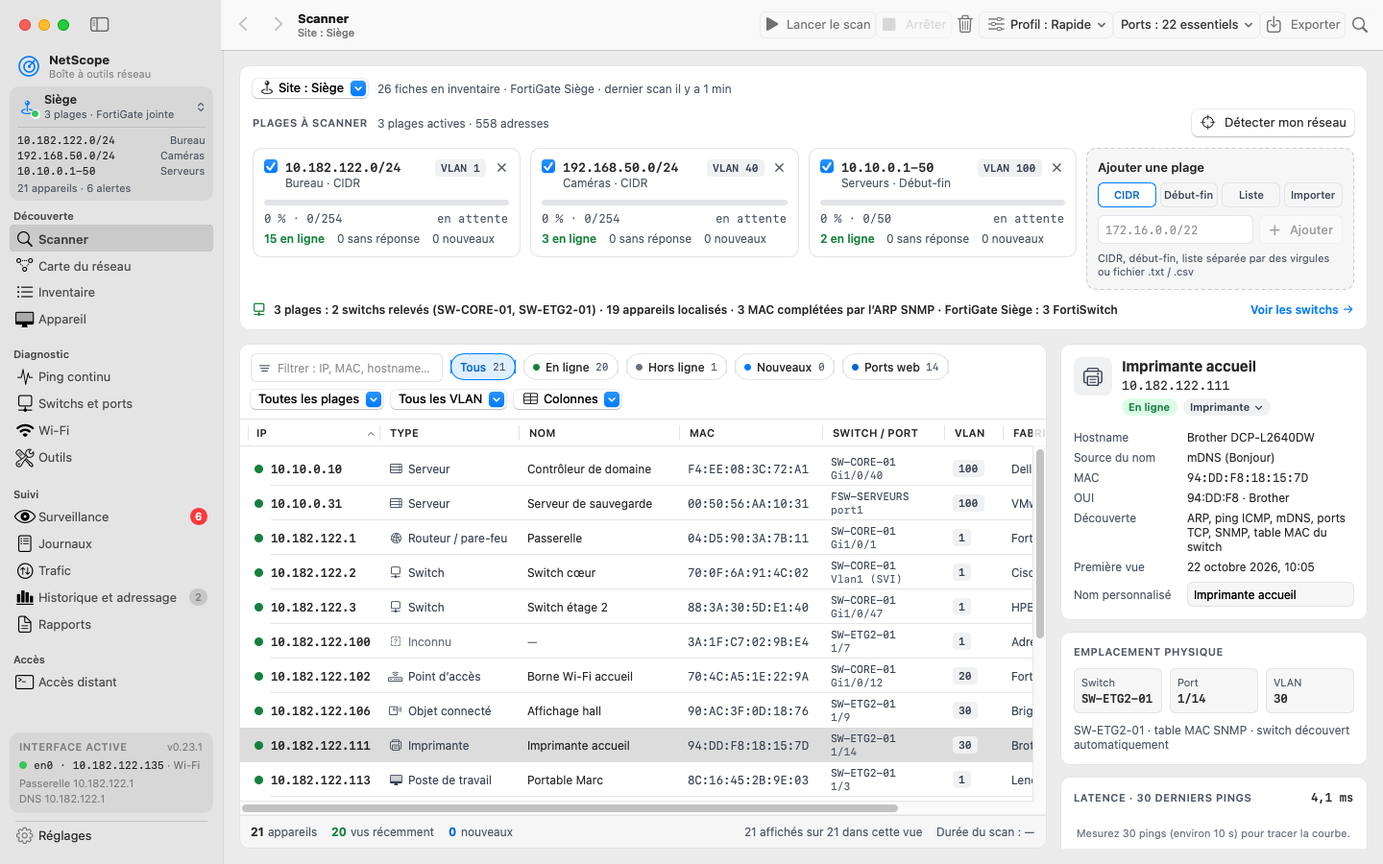
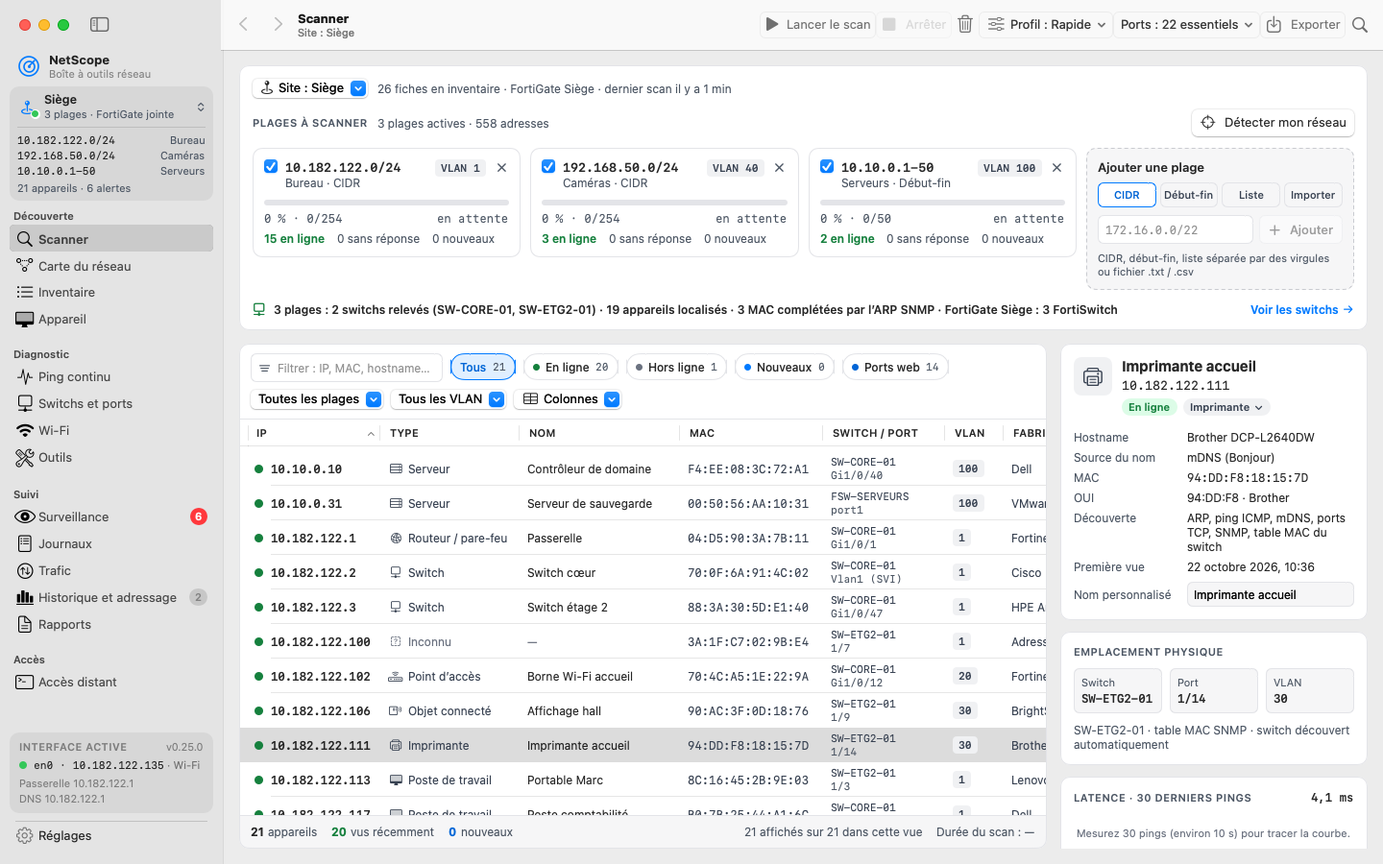
Version 0.25.0
- Info.plist : 0.25.0 (build 31).
- CHANGELOG : section 0.25.0 (SNMP v3 partout, Navigateur SNMP, graphes du
  trafic des ports, Trafic sans FortiView, actions sur les ports, allègements
  de la note 79) avec les limites connues.
- README : version, fonctions (switchs, cycle PoE, Navigateur SNMP, Courriel à
  onglets, Bilan de santé) et feuille de route.
- A-FAIRE : notes 59, 73, 74, 79, partie « Trafic » de la note 78 et
  navigateur SNMP livrés dans la 0.25.0 ; priorités mises à jour.
- Capture du Scanner refaite (version 0.25.0 dans la barre latérale).

Changed region(s): [[0.1875, 0.9333, 0.6562, 0.9644], [0.75, 0.5289, 0.7812, 0.7467], [0.75, 0.84, 0.7812, 0.8711]]

diff --git a/docs/A-FAIRE.md b/docs/A-FAIRE.md
@@ -6,9 +6,9 @@
 
 ## Priorités (revues le 5 novembre 2026, réorganisées avec les notes 45 à 79 après l’analyse du marché)
 
-Notes 1 à 5 : livrées dans la 0.3.0 ; note 18 dans la 0.3.1 ; notes 8, 19, 20 et 9 dans la 0.4.0 ; types Console de jeu et Domotique dans la 0.4.1 ; notes 12, 21, 17 et 16 dans la 0.5.0 ; notes 15 et 14 dans la 0.6.0 ; notes 7 et 22 dans la 0.7.0 ; notes 13 et 23 dans la 0.8.0 ; note 24 dans la 0.9.0 ; note 25 dans la 0.10.0 ; notes 26 et 27 dans la 0.11.0 ; note 28 et correction de la Carte dans la 0.12.0 ; notes 34, 33, 31 et 36 dans la 0.13.0 ; notes 32, 30, 37 et 38 dans la 0.14.0 ; notes 49, 48, 45 et 52 dans la 0.15.0 ; notes 46 et 47, et correctif iCloud de Vitesse des disques, dans la 0.16.0 ; notes 29, 39 et 54 dans la 0.17.0 ; notes 50, 51, 53, 55 et 56 dans la 0.18.0 ; notes 42 et 10 dans la 0.20.0 ; notes 41 et 43, et la note 11 en partie (pause par cible, tableau MTR, écran vide), dans la 0.21.0 ; note 57 dans la 0.22.0 ; notes 35 et 60 dans la 0.23.0 (la note 40 reste à faire).
+Notes 1 à 5 : livrées dans la 0.3.0 ; note 18 dans la 0.3.1 ; notes 8, 19, 20 et 9 dans la 0.4.0 ; types Console de jeu et Domotique dans la 0.4.1 ; notes 12, 21, 17 et 16 dans la 0.5.0 ; notes 15 et 14 dans la 0.6.0 ; notes 7 et 22 dans la 0.7.0 ; notes 13 et 23 dans la 0.8.0 ; note 24 dans la 0.9.0 ; note 25 dans la 0.10.0 ; notes 26 et 27 dans la 0.11.0 ; note 28 et correction de la Carte dans la 0.12.0 ; notes 34, 33, 31 et 36 dans la 0.13.0 ; notes 32, 30, 37 et 38 dans la 0.14.0 ; notes 49, 48, 45 et 52 dans la 0.15.0 ; notes 46 et 47, et correctif iCloud de Vitesse des disques, dans la 0.16.0 ; notes 29, 39 et 54 dans la 0.17.0 ; notes 50, 51, 53, 55 et 56 dans la 0.18.0 ; notes 42 et 10 dans la 0.20.0 ; notes 41 et 43, et la note 11 en partie (pause par cible, tableau MTR, écran vide), dans la 0.21.0 ; note 57 dans la 0.22.0 ; notes 35 et 60 dans la 0.23.0 ; erreurs récentes des ports dans la 0.23.1 ; notes 59, 73, 74 et 79, la partie « Trafic » de la note 78 et le navigateur SNMP dans la 0.25.0 (la 0.24.0, notes 40 et 61, reste à faire).
 
-1. **0.13.x à 0.22.x, retours d'essai** (0.8.1 : plantage de Vitesse des disques sur le NAS corrigé ; 0.9.0 : FortiGate essayée avec succès ; 0.10.0 : plusieurs FortiGate à essayer ; 0.11.0 : recherche multiple et FortiAP à essayer ; 0.12.0 : sites à essayer ; 0.13.0 : navigation et gros sites à essayer ; 0.14.0 : recherche de la Carte, téléphones IP, étendues DHCP et sauvegarde chiffrée à essayer ; 0.15.0 : choix du site, Switchs et Wi-Fi d'un autre site, Retour et nom d'utilisateur SSH à essayer ; 0.16.0 : clients Wi-Fi, fiche du client, historique du signal et diagnostic Wi-Fi à essayer sur de vraies bornes FortiAP ; 0.17.0 : relecture automatique, WAN et VPN, Trafic FortiView et analyse complète à essayer sur de vraies FortiGate ; 0.18.0 : FTP, FTPS, SFTP, TFTP, « Bloqué ici », NAS dans Vitesse des disques, export, import et synchronisation à essayer sur de vrais appareils et deux Mac ; 0.20.0 : rapport de suivi, rapports planifiés et Inventaire repensé à essayer sur les vrais sites ; 0.21.0 : firmware et licences, Syslog, traps SNMP, journaux de la FortiGate et pause par cible du Ping à essayer sur de vrais équipements ; 0.22.0 : terminal intégré SSH, Telnet et série, et session VNC intégrée à essayer sur de vrais équipements, câbles console et serveurs VNC ; 0.23.0 : journal de l’app, « Exporter un diagnostic » et fiche matériel automatique à essayer sur de vrais switchs, imprimantes et FortiGate) : essais réels de la 0.3.x (localisation, DHCP, capture,
+1. **0.13.x à 0.22.x, retours d'essai** (0.8.1 : plantage de Vitesse des disques sur le NAS corrigé ; 0.9.0 : FortiGate essayée avec succès ; 0.10.0 : plusieurs FortiGate à essayer ; 0.11.0 : recherche multiple et FortiAP à essayer ; 0.12.0 : sites à essayer ; 0.13.0 : navigation et gros sites à essayer ; 0.14.0 : recherche de la Carte, téléphones IP, étendues DHCP et sauvegarde chiffrée à essayer ; 0.15.0 : choix du site, Switchs et Wi-Fi d'un autre site, Retour et nom d'utilisateur SSH à essayer ; 0.16.0 : clients Wi-Fi, fiche du client, historique du signal et diagnostic Wi-Fi à essayer sur de vraies bornes FortiAP ; 0.17.0 : relecture automatique, WAN et VPN, Trafic FortiView et analyse complète à essayer sur de vraies FortiGate ; 0.18.0 : FTP, FTPS, SFTP, TFTP, « Bloqué ici », NAS dans Vitesse des disques, export, import et synchronisation à essayer sur de vrais appareils et deux Mac ; 0.20.0 : rapport de suivi, rapports planifiés et Inventaire repensé à essayer sur les vrais sites ; 0.21.0 : firmware et licences, Syslog, traps SNMP, journaux de la FortiGate et pause par cible du Ping à essayer sur de vrais équipements ; 0.22.0 : terminal intégré SSH, Telnet et série, et session VNC intégrée à essayer sur de vrais équipements, câbles console et serveurs VNC ; 0.23.0 : journal de l’app, « Exporter un diagnostic » et fiche matériel automatique à essayer sur de vrais switchs, imprimantes et FortiGate ; 0.25.0 : SNMP v3, navigateur SNMP, graphes des ports et cycle PoE à essayer sur de vrais switchs, FortiSwitch et FortiGate, d’abord sur un port sans risque) : essais réels de la 0.3.x (localisation, DHCP, capture,
    notifications, VNC, mise à jour), de la 0.4.0 (menus de colonnes, type, ports, sombre) et
    des 0.5.0 à 0.8.0 (voir ci-dessous) ; la 0.23.0 n’a pas encore reçu ces retours : ils passent à la 0.23.x, avant la 0.24.0 (point 20).
 2. ~~**0.5.0, diagnostic du poste et du réseau local**~~ : livrée le 4 novembre 2026
@@ -81,6 +81,14 @@ Notes 1 à 5 : livrées dans la 0.3.0 ; note 18 dans la 0.3.1 ; notes 8, 19, 20 
     secrets masqués, « Exporter un diagnostic… », bannière après une fermeture inattendue ;
     60 : modèle, numéro de série et firmware lus par ENTITY-MIB, sysDescr et la FortiGate) ;
     essai réel à faire sur les switchs, imprimantes, FortiSwitch, FortiAP et FortiGate de Dany.
+    ~~**0.25.0, SNMP complet et actions sur les ports**~~ : livrée le 5 novembre 2026, avant la
+    0.24.0 (notes 59 : SNMP v3 partout, utilisateur v3 par site ; navigateur SNMP et MIB walk ;
+    74 : graphes du trafic de chaque port sur 30 jours, historique par site ; 78, partie
+    « Trafic » : trafic des ports sans FortiView, erreurs au rythme par heure ; 73 : cycle PoE et
+    redémarrage d’un port, désactivés par défaut ; 79 : « Historique et adressage », « Bilan de
+    santé », outil Courriel à onglets, Ookla et services grand public masqués) ; essai réel à
+    faire sur les switchs, FortiSwitch et FortiGate de Dany (v3, jeton en lecture-écriture,
+    POWER-ETHERNET-MIB en écriture).
 19. **Ordre proposé pour la suite** (analyse du 4 novembre 2026, acceptée par Dany ;
     réorganisé le même jour pour placer les notes 45 à 53, ordre accepté par Dany) :
     - **0.13.1** : essais réels (sites, FortiGate, FortiAP, navigation) et correctifs ; note 35
@@ -113,11 +121,14 @@ Notes 1 à 5 : livrées dans la 0.3.0 ; note 18 dans la 0.3.1 ; notes 8, 19, 20 
       « Exporter un diagnostic ») et 60 (fiche matériel remplie automatiquement). Les retours
       d’essai sur une vraie FortiGate, un site et un scan restent à faire et seront corrigés au
       fil de l’eau en 0.23.x.
-    - **0.24.0, sauvegarde des configurations** (reprend la 0.19.0) : note 40 (FortiGate par
+    - **0.24.0, sauvegarde des configurations** (reprend la 0.19.0 ; toujours à faire, la 0.25.0
+      est sortie avant) : note 40 (FortiGate par
       l’API, puis switchs en SSH grâce au terminal de la 0.22.0) ; note 61 (export de la carte et
       section « Carte » du rapport).
-    - **0.25.0, SNMP complet** : note 59 (SNMP v3 partout) ; navigateur SNMP et MIB walk (idée
-      sans numéro, venue de l’ancienne feuille de route) ; note 74 (graphes de bande passante par port).
+    - ~~**0.25.0, SNMP complet**~~ (livrée le 5 novembre 2026, avant la 0.24.0) : note 59 (SNMP
+      v3 partout) ; navigateur SNMP et MIB walk (idée sans numéro, venue de l’ancienne feuille de
+      route) ; note 74 (graphes de bande passante par port) ; partie « Trafic » de la note 78 ;
+      avec en plus les notes 73 et 79, décidées par Dany.
     - **0.26.0, bilan de raccordement** : note 58 (bilan en un clic, avant/après) ; Test MTU réel
       (note 78) ; note 65 (ping TCP/HTTP, traceroute TCP/UDP).
     - **0.27.0, surveillance de longue durée** : note 62 (historique de 30 à 90 jours, rapport de
@@ -132,9 +143,9 @@ Notes 1 à 5 : livrées dans la 0.3.0 ; note 18 dans la 0.3.1 ; notes 8, 19, 20 
       canal en 5/6 GHz et relevé enregistré (note 78) ; notes 66 (tunnels SSH) et 67 (commande
       envoyée à plusieurs sessions) ; XMODEM en console série et import de `~/.ssh/config`
       (note 78).
-    - **À décider avec Dany avant la 0.24.0** : note 73 (cycle PoE : rompt la règle de lecture
-      seule) ; Ookla caché ou retiré, nouveaux noms des deux « analyses », regrouper les outils
-      de courriel (note 79) ; avancer la note 66 (tunnels SSH) en 0.24.0 si le VNC non chiffré ou
+    - ~~**À décider avec Dany avant la 0.24.0**~~ : notes 73 (cycle PoE) et 79 (Ookla caché,
+      nouveaux noms des deux « analyses », outils de courriel regroupés) décidées et livrées dans
+      la 0.25.0 ; reste à décider : avancer la note 66 (tunnels SSH) en 0.24.0 si le VNC non chiffré ou
       le réseau FortiLink posent problème pendant les essais.
     - **Plus tard** : note 11 (reste : préréglages du Ping continu), 6 (RustDesk, en version
       légère), 13 (anglais) ; notes 68 à 70 (empreinte des services, ports UDP, certificats
@@ -149,7 +160,7 @@ Notes 1 à 5 : livrées dans la 0.3.0 ; note 18 dans la 0.3.1 ; notes 8, 19, 20 
 | --- | --- | --- |
 | Scanner et sites | 18, 19, 20, 26, 28, 48, 49 | 63 (0.28.0), IPv6 (0.29.0), 68, 69, 72 (plus tard) |
 | Navigation entre les modules | 31, 33, 34, 36, 45 | — |
-| Switchs et ports, Fortinet | 12, 24, 25, 29, 39, 41, 54 | 40 (0.24.0), 59, 74 et navigateur SNMP / MIB walk (0.25.0), 73 (à décider), 75, 77 (plus tard) |
+| Switchs et ports, Fortinet | 12, 24, 25, 29, 39, 41, 54, 59, 73, 74, navigateur SNMP / MIB walk (0.25.0) | 40 (0.24.0), 75, 77 (plus tard) |
 | Wi-Fi | 1, 27, 46, 47 | 71 (0.30.0) |
 | Carte du réseau | 32 | 61 (0.24.0) |
 | Inventaire | 8, 10, 30 | 60 (0.23.0) |
@@ -159,7 +170,7 @@ Notes 1 à 5 : livrées dans la 0.3.0 ; note 18 dans la 0.3.1 ; notes 8, 19, 20 
 | Surveillance, alertes et journaux | 3, 23, 43 | 62 (0.27.0), 64 (0.28.0), 76 (plus tard) |
 | Rapports | 4, 42 | 61 (0.24.0), 62 (0.27.0) |
 | Réglages, sauvegarde, aide | 9, 13, 38, 56 | 35 (0.23.0), 13 (plus tard) |
-| Toute l’app (analyse du marché) | — | 78 (améliorations), 79 (allègements, à décider) |
+| Toute l’app (analyse du marché) | 79 (0.25.0), 78 en partie (Trafic, 0.25.0) | 78 (autres améliorations) |
 
 ## 1. Wi-Fi : « Autoriser la localisation » n'ouvre pas la fenêtre d'autorisation
 
@@ -1155,6 +1166,8 @@ Terminal » et « Partage d'écran » restent en secours dans le menu de « Conn
 
 ## 59. SNMP v3 pour le relevé des switchs, les Ressources et les sondes — 0.25.0 (analyse du marché, à valider par Dany)
 
+**Livrée dans la 0.25.0** (5 novembre 2026) : relevé des switchs, relecture automatique, Ressources, sondes, fiche matériel et découverte de fin de scan en SNMP v3, communauté v2c en repli ; utilisateur v3 par site ; navigateur SNMP (GET, GETNEXT, parcours, export CSV) livré avec ; essai réel à faire sur les switchs de Dany.
+
 - **Ce que ça apporte** : beaucoup de parcs récents refusent le v2c. Le moteur v3 existe déjà
   (`SNMPv3.swift`) mais ne sert qu’au Test SNMP ; il faut le brancher sur le relevé des
   switchs, les Ressources et les sondes de Surveillance.
@@ -1267,6 +1280,8 @@ Terminal » et « Partage d'écran » restent en secours dans le menu de « Conn
 
 ## 73. Actions sur un port : cycle PoE et redémarrage — à décider (analyse du marché, à valider par Dany)
 
+**Livrée dans la 0.25.0** (5 novembre 2026) : cycle PoE et « Redémarrer le port » par l’API de la FortiGate (jeton en lecture-écriture sur « WiFi & Switch Controller »), cycle PoE par SNMP en écriture pour les autres switchs, actions désactivées par défaut, confirmation, uplinks refusés, suivi du retour de l’appareil ; essai réel à faire, d’abord sur un port sans risque.
+
 - **À décider avec Dany : rompt la règle de lecture seule.** Aujourd’hui NetScope ne change
   rien sur les équipements (API FortiGate et SNMP en lecture).
 - **Ce que ça apporte** : redémarrer à distance un téléphone IP, une borne ou une caméra figés,
@@ -1275,6 +1290,8 @@ Terminal » et « Partage d'écran » restent en secours dans le menu de « Conn
 - **Effort** : moyen.
 
 ## 74. Graphes de bande passante par port sur la durée — 0.25.0 (analyse du marché, à valider par Dany)
+
+**Livrée dans la 0.25.0** (5 novembre 2026) : graphe de chaque port sur 1 h à 30 jours, historique par site jusqu’à 90 jours, « Ports les plus chargés » par période, Trafic par les compteurs des switchs sans FortiView ; essai réel à faire sur de vrais switchs (historique rempli seulement quand l’app est ouverte).
 
 - **Ce que ça apporte** : voir un lien saturé dans le temps, pas en instantané. Compteurs SNMP
   des interfaces, qui servent aussi de trafic de secours pour les réseaux sans FortiGate.
@@ -1345,12 +1362,14 @@ feuille de route révisée, « plus tard » sinon.
   `~/.ssh/config`, tunnels (note 66), commande envoyée à plusieurs sessions (note 67),
   XMODEM/YMODEM et horodatage des lignes en console série ; presse-papiers VNC au-delà du texte
   plus tard (le Break et le préréglage Cisco/Fortinet sont livrés dans la 0.22.0).
-- **Trafic** (0.25.0) : secours par les compteurs SNMP des interfaces (note 74) ; seuils sur un
+- **Trafic** (0.25.0) : **Livrée dans la 0.25.0** (5 novembre 2026). Secours par les compteurs SNMP des interfaces (note 74) ; seuils sur un
   écart dans le temps plutôt que « 1 000 erreurs depuis le démarrage ».
 - **Vitesse des disques** (plus tard) : SFTP et FTP comme emplacements (le client existe
   déjà). Le reste suffit.
 
 ## 79. Allègements proposés — à décider (analyse du marché, à valider par Dany)
+
+**Livrée dans la 0.25.0** (5 novembre 2026) : « Analyse » renommé « Historique et adressage », « Bilan de santé » sur 100 rappelé en tête de cet écran, outil « Courriel » à onglets, Ookla masqué par défaut, services grand public non suivis par défaut. Restent : Test MTU (note 78, 0.26.0), TFTP, menu « Connecter » à revoir après les essais réels.
 
 Outils inutiles ou redondants dans NetScope, et ce qu’il vaut mieux ne pas faire.
 

diff --git a/README.md b/README.md
@@ -4,7 +4,7 @@
 sur plusieurs plages, dit sur quel switch et quel port chacun est branché, puis diagnostique,
 surveille, documente et ouvre une session à distance, site par site, dans une seule fenêtre.
 
-[![Version](https://img.shields.io/badge/version-0.23.1-blue)](https://github.com/mdany75/NetScope/releases/latest)
+[![Version](https://img.shields.io/badge/version-0.25.0-blue)](https://github.com/mdany75/NetScope/releases/latest)
 [![macOS](https://img.shields.io/badge/macOS-14%2B-lightgrey?logo=apple)](#installation)
 [![Licence](https://img.shields.io/badge/licence-MIT-green)](LICENSE)
 
@@ -22,11 +22,14 @@ surveille, documente et ouvre une session à distance, site par site, dans une s
   ses switchs, ses résultats et son inventaire, même quand deux sites utilisent les mêmes
   adresses. Tout reste sur le Mac (synchronisation iCloud Drive entre tes Mac en option), sans
   abonnement par site.
-- **Fortinet en profondeur, en lecture seule** : FortiSwitch, bornes FortiAP, liens WAN et VPN,
-  FortiView, firmware, licences et journaux, lus par l’API sans jamais rien modifier.
+- **Fortinet en profondeur** : FortiSwitch, bornes FortiAP, liens WAN et VPN, FortiView,
+  firmware, licences et journaux, lus par l’API ; seules les actions sur les ports (cycle PoE,
+  désactivées par défaut) modifient quelque chose, après confirmation.
 - **Une seule fenêtre pour tout le travail** : scan, ping, Wi-Fi, outils de diagnostic,
   rapports PDF, terminal SSH et Telnet, console série et VNC intégrés, et depuis la 0.23.0 un
-  journal de l’app avec « Exporter un diagnostic » et une fiche matériel remplie toute seule.
+  journal de l’app avec « Exporter un diagnostic » et une fiche matériel remplie toute seule ;
+  depuis la 0.25.0, SNMP v3 partout, un Navigateur SNMP, le trafic de chaque port sur 30 jours
+  et le cycle PoE d’un port à distance.
 
 > **État du projet** : NetScope est en développement actif (0.x). Les fonctions réseau
 > (FortiGate, FortiAP, SNMP, Syslog, sessions SSH, Telnet, série et VNC) sont testées sur des
@@ -41,7 +44,7 @@ surveille, documente et ouvre une session à distance, site par site, dans une s
   administrateur, table ARP et 22 ports essentiels sondés à chaque scan.
 - Nom de chaque appareil avec sa source (DNS inverse, mDNS/Bonjour, NetBIOS, sysName SNMP),
   fabricant d’après le registre IEEE complet (environ 53 700 préfixes) et type d’appareil.
-- Colonnes **Switch / Port** et **VLAN** remplies seules : découverte SNMP v2c des switchs
+- Colonnes **Switch / Port** et **VLAN** remplies seules : découverte SNMP v2c ou v3 des switchs
   pendant le scan, ou FortiSwitch lus par la FortiGate.
 - Sites avec leurs plages et leur FortiGate, reconnus par la passerelle ; recherche multiple
   dans tous les modules (`switch:`, `type:`, `ip:`, `vlan:`, `-mot`…).
@@ -69,10 +72,16 @@ surveille, documente et ouvre une session à distance, site par site, dans une s
 - **« Diagnostiquer »** un client, une borne ou un SSID : signal, canal, interférences, charge,
   authentification, DHCP, puis les actions à faire dans l’ordre.
 
-### Fortinet (lecture seule)
+### Switchs et Fortinet
 
 - Plusieurs FortiGate, une par site, chacune avec son jeton au Trousseau.
-- FortiSwitch gérés par FortiLink dans Switchs et ports et dans le Scanner.
+- FortiSwitch gérés par FortiLink dans Switchs et ports et dans le Scanner ; autres switchs
+  relus en SNMP v2c ou v3 (utilisateur v3 par site, mots de passe au Trousseau).
+- **Graphe du trafic de chaque port** sur 1 h, 24 h, 7 jours ou 30 jours (débits maximal et
+  moyen, pourcentage du lien, erreurs par heure), historique gardé par site jusqu’à 90 jours.
+- **Cycle PoE d’un port** (et « Redémarrer le port » sur un FortiSwitch) pour relancer un
+  téléphone IP, une borne ou une caméra figés : désactivé par défaut, confirmation qui nomme
+  l’appareil, uplinks refusés, suivi du retour de l’appareil.
 - Outil **WAN et VPN** : liens WAN et SD-WAN (latence, gigue, perte, SLA), tunnels IPsec,
   utilisateurs VPN SSL, pour un site ou tous.
 - **Firmware et licences** : versions FortiOS, FortiSwitch et FortiAP, licences FortiGuard et
@@ -88,7 +97,8 @@ surveille, documente et ouvre une session à distance, site par site, dans une s
 - **Journaux** : récepteur Syslog et traps SNMP sur ce Mac, journaux d’événements de la
   FortiGate et « Comprendre une coupure ».
 - **Trafic** lu par FortiView (sources, applications, destinations, menaces), « Qui sature le
-  lien ? » et « Analyse complète du réseau » notée sur 100.
+  lien ? » et « Bilan de santé » noté sur 100 ; sans FortiView, trafic des ports relevé sur les
+  switchs.
 
 ### Accès distant
 
@@ -112,9 +122,11 @@ surveille, documente et ouvre une session à distance, site par site, dans une s
 ### Boîte à outils
 
 - Calculateur de sous-réseaux avec découpage, convertisseur MAC/OUI, scan de ports, Wake-on-LAN.
-- DNS complet (comparaison, propagation, DNSSEC), Whois et outils **Courriel** (santé d’un
-  domaine sur 100, MX, listes noires, SPF/DKIM/DMARC, diagnostic SMTP, en-têtes).
-- **Speedtest** (Cloudflare, M-Lab, LibreSpeed, Ookla) et iperf3 ; **État des services** en
+- DNS complet (comparaison, propagation, DNSSEC), Whois et un outil **Courriel** à onglets
+  (santé d’un domaine sur 100, MX, listes noires, SPF/DKIM/DMARC, diagnostic SMTP, en-têtes).
+- **Navigateur SNMP** : GET, GETNEXT et parcours d’un OID en v2c ou v3, tables courantes
+  nommées, export CSV.
+- **Speedtest** (Cloudflare, M-Lab, LibreSpeed ; Ookla en option) et iperf3 ; **État des services** en
   ligne (Microsoft 365, Apple, AWS, Google…).
 - **Capture de paquets** (filtres, détail par couche, suivi de flux, .pcap), serveur et client
   **TFTP**, **Vitesse des disques** (local, NAS, partage réseau).
@@ -179,7 +191,8 @@ vérifiée avant l’installation).
 3. **FortiGate en lecture seule** : dans Réglages › Switchs › Contrôleurs FortiGate, ajoute la
    FortiGate du site avec un jeton d’API. L’aide de l’écran explique comment créer un
    administrateur API en lecture seule. FortiSwitch, FortiAP, WAN, trafic et firmware se
-   remplissent alors seuls.
+   remplissent alors seuls. Seules les actions sur les ports (cycle PoE, désactivées par
+   défaut) demandent « WiFi & Switch Controller » en lecture-écriture.
 
 ## Confidentialité et sécurité
 
@@ -202,8 +215,8 @@ et le détail des notes dans [docs/A-FAIRE.md](docs/A-FAIRE.md). Les prochaines 
 
 - **0.24.0, sauvegarde des configurations** : FortiGate par l’API, puis switchs en SSH ; export
   de la carte et section « Carte » du rapport.
-- **0.25.0, SNMP complet** : SNMP v3 partout, navigateur SNMP et graphes de bande passante par
-  port.
+- **0.26.0, bilan de raccordement** : bilan en un clic avec avant/après, vrai Test MTU, ping
+  TCP et HTTP, traceroute TCP et UDP.
 
 ## Construire depuis les sources
 

diff --git a/CHANGELOG.md b/CHANGELOG.md
@@ -1,5 +1,91 @@
 # Changements
 
+## 0.25.0 — 2026-11-05
+
+SNMP v3 partout et nouveau Navigateur SNMP, graphes du trafic de chaque port sur 30 jours, et
+premières actions sur les ports (cycle PoE), désactivées par défaut et entourées de
+garde-fous.
+
+### Ajouté
+- **SNMP v3 partout** : relevé des switchs, relecture automatique, Ressources de la fiche
+  Appareil, sondes de la Surveillance, « Lire la fiche matériel » et découverte des switchs en
+  fin de scan interrogent maintenant en SNMP v3 (noAuthNoPriv, authNoPriv, authPriv ; MD5,
+  SHA-1 à SHA-512 ; DES, AES-128 à AES-256). La communauté v2c reste le repli.
+- **Utilisateur SNMP v3 par site** (Réglages › Identifiants) : menu « S’applique à » ; les
+  autres sites utilisent celui de tous les sites. Les mots de passe restent au Trousseau.
+- **Navigateur SNMP** (Boîte à outils › Diagnostic) : GET, GETNEXT et parcours d’un OID en
+  v2c ou v3, raccourcis vers les tables courantes (system, ifTable, ifXTable, ENTITY-MIB, LLDP,
+  BRIDGE, Q-BRIDGE, PoE, HOST-RESOURCES), noms et valeurs lisibles, limite de lignes, arrêt,
+  copie et export CSV.
+- **Graphe du trafic de chaque port** (Switchs et ports) : 1 h, 24 h, 7 jours ou 30 jours,
+  avec débits maximal et moyen, pourcentage de la vitesse du lien et erreurs par heure
+  (valeurs au survol).
+- **Historique du trafic des ports**, gardé par site sur ce Mac : 24 h à la résolution du
+  relevé, 7 jours par tranches de 5 min, puis à l’heure jusqu’à 90 jours. Les compteurs
+  32 bits qui bouclent et les compteurs remis à zéro sont gérés.
+- **Trafic sans FortiView** : sans FortiGate prête (ou sans le droit FortiView), l’écran
+  Trafic montre le trafic relevé sur les switchs (SNMP et FortiSwitch) : port le plus chargé,
+  ports chargés, ports en erreur et tableau des ports les plus chargés.
+- **Actions sur les ports** (note 73) : « Couper et rallumer le PoE » d’un port, pour
+  redémarrer à distance un téléphone IP, une borne ou une caméra figés, depuis le détail du
+  port (Switchs et ports) et depuis la fiche de l’appareil.
+  - FortiSwitch géré par une FortiGate : cycle PoE et « Redémarrer le port » par l’API REST
+    de la FortiGate. Le jeton doit avoir « WiFi & Switch Controller » en lecture-écriture ; un
+    jeton en lecture seule est signalé clairement.
+  - Autres switchs : cycle PoE par SNMP en écriture (v2c ou v3), durée de coupure réglable
+    (5 s par défaut), avec des identifiants d’écriture dédiés, distincts de ceux de lecture et
+    gardés au Trousseau.
+  - Garde-fous : actions désactivées par défaut (Réglages › Switchs › Actions sur les ports) ;
+    confirmation obligatoire qui nomme le switch, le port, l’appareil et son IP ; uplinks et
+    port de ce Mac refusés par défaut ; le PoE est rallumé jusqu’à trois fois si la remise
+    échoue.
+  - Après l’action, NetScope suit le retour de l’appareil (« revenu en 52 s ») et note l’action
+    au journal de l’app et dans la chronologie de l’appareil dans l’inventaire.
+
+### Modifié
+- **Fiche matériel en SNMP v3** : le châssis est trouvé par un vrai parcours d’ENTITY-MIB,
+  comme en v2c, au lieu d’index devinés.
+- **Réglages › Switchs** : la colonne SNMP indique l’utilisateur v3 utilisé pour chaque
+  switch, et si la communauté sert de repli.
+- **« Ports les plus chargés »** (Switchs et ports) : passe d’« En direct » à une période
+  (1 h à 30 j) dans un tableau standard, aussi pour les FortiSwitch gérés par la FortiGate.
+- **Bilan de santé** (ancienne « Analyse complète du réseau », note sur 100) : un port est
+  signalé en erreur selon son rythme d’erreurs par heure, et non plus d’après le total
+  accumulé depuis le démarrage du switch ; un port chargé à plus de 80 % en moyenne sur la
+  dernière heure est signalé saturé. Le bilan est rappelé en tête de l’écran Historique et
+  adressage, avec un lien vers son détail.
+- **« Analyse » devient « Historique et adressage »**, pour ne plus le confondre avec le bilan
+  de Trafic ; la recherche des Réglages le retrouve aussi par son ancien nom.
+- **Boîte à outils** : un seul outil « Courriel » à onglets (Super outil, SMTP, en-têtes,
+  santé, SPF/DKIM, MX, listes noires) remplace les sept outils séparés ; les anciens liens
+  ouvrent le bon onglet.
+- **Speedtest** : le moteur Ookla est masqué par défaut (licence pour un usage personnel et
+  non commercial) ; il se réactive dans Serveurs › Sources, et un choix Ookla déjà fait est
+  gardé.
+- **État des services** : TikTok, Snapchat, Facebook, Instagram et Grok ne sont plus suivis
+  par défaut ; une case les réactive dans « Modifier la liste ».
+- **Barre latérale** un peu plus large, pour afficher les noms d’écran en entier.
+
+### Corrigé
+- **Fiche Appareil › Ressources** : l’en-tête indique la version SNMP vraiment utilisée
+  (v3 avec le nom de l’utilisateur, ou v2c) au lieu de toujours « SNMP v2c ».
+- **Fiche Appareil** : un nom contenant « œ » (« Switch cœur ») n’est plus coupé en bas.
+
+### Limites connues
+- **Vérifié en démonstration seulement** : SNMP v3, Navigateur SNMP, graphes des ports et
+  actions sur les ports n’ont pas encore été essayés sur de vrais switchs, FortiSwitch ni
+  FortiGate.
+- **Les actions sur les ports modifient l’équipement** : c’est la première exception à la
+  lecture seule de NetScope. Le cycle PoE coupe l’alimentation de l’appareil branché ; à
+  essayer d’abord sur un port sans risque. Le cycle PoE par SNMP dépend de la prise en charge
+  de POWER-ETHERNET-MIB en écriture par le switch, et « Redémarrer le port » n’existe que pour
+  les FortiSwitch gérés par la FortiGate.
+- **Graphes des ports** : l’historique ne se remplit que pendant que NetScope est ouvert et
+  relit les switchs ; il commence vide à l’installation et garde des trous quand l’app est
+  fermée.
+- La 0.24.0 (sauvegarde des configurations, note 40, et export de la carte, note 61) n’est pas
+  encore faite : elle viendra plus tard.
+
 ## 0.23.1 — 2026-11-05
 
 Les cartes des switchs signalent les ports dont les erreurs augmentent, et Réglages › Mises à
